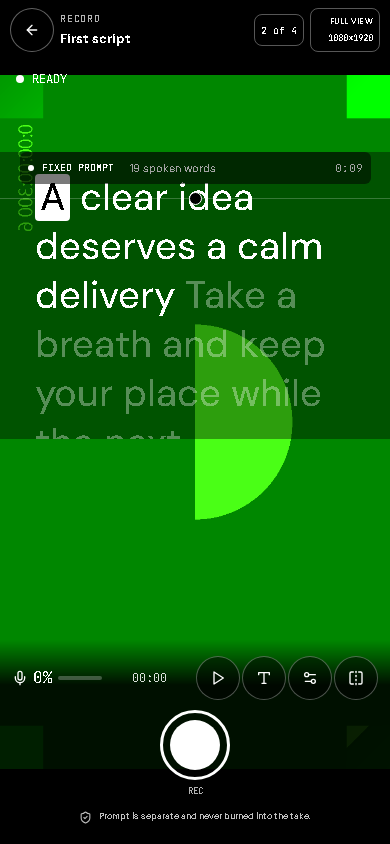
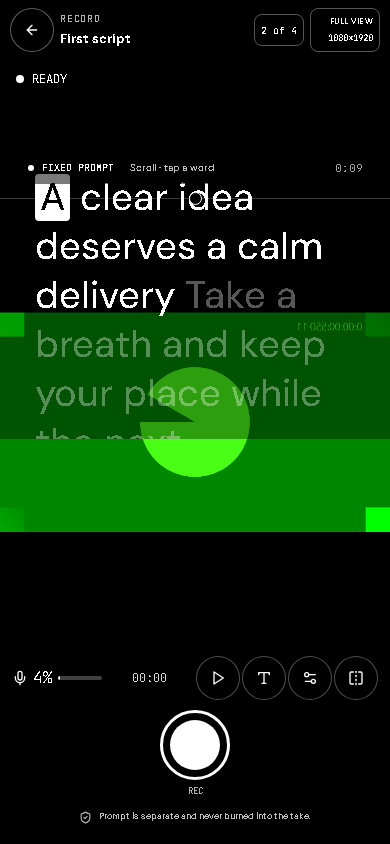
Fix iOS camera orientation and prompt navigation

diff --git a/src/components/teleprompter/PromptReader.tsx b/src/components/teleprompter/PromptReader.tsx
@@ -90,6 +90,12 @@ export function PromptReader({ script, settings, onCursorChange, compact = false
     setPlayingState(false)
   }, [setPlayingState])
 
+  const beginManualNavigation = useCallback(() => {
+    // Touching the transcript hands control to the presenter. Keep recording,
+    // but stop automatic movement so the list cannot fight the user's drag.
+    if (playing) stopScroll()
+  }, [playing, stopScroll])
+
   const tick = useCallback((timestamp: number) => {
     if (startedAtRef.current === null || !parsed.words || settings.mode === 'manual') return
     const elapsed = Math.max(0, (timestamp - startedAtRef.current) / 1000)
@@ -174,12 +180,12 @@ export function PromptReader({ script, settings, onCursorChange, compact = false
 
   return <div className={`tp-reader-wrap ${compact ? 'tp-reader-compact' : ''} ${hideControls ? 'tp-reader-no-controls' : ''}`}>
     <div className="tp-reader-head">
-      <div className="tp-reader-meta"><span className="tp-live-dot"/><span className="mono">{modeLabel}</span><span className="tp-divider"/><span>{parsed.words.toLocaleString()} spoken words</span></div>
+      <div className="tp-reader-meta"><span className="tp-live-dot"/><span className="mono">{modeLabel}</span><span className="tp-divider"/><span className="tp-reader-word-count">{parsed.words.toLocaleString()} spoken words</span>{compact && <span className="tp-reader-gesture-hint">Scroll · tap a word</span>}</div>
       <div className="tp-reader-stats"><span className="mono">{formatDuration(timing.estimatedSeconds)}</span></div>
     </div>
     <div className="tp-reading-stage" style={readerStyle} onKeyDown={keyDown} tabIndex={0} role="region" aria-label="Teleprompter reader">
       {settings.showReadingLine !== false && <div className="tp-reading-line" aria-hidden="true"><span/></div>}
-      <div className="tp-script-scroll" ref={scrollRef}>
+      <div className="tp-script-scroll" ref={scrollRef} onPointerDown={beginManualNavigation}>
         <div className="tp-script-column">
           <div className="tp-anchor-spacer" aria-hidden="true"/>
           {parsed.blocks.map((block) => {
@@ -193,7 +199,7 @@ export function PromptReader({ script, settings, onCursorChange, compact = false
                   const spokenIndex = token.spoken ? parsed.spokenTokens.findIndex((item) => item.index === token.index) : -1
                   const state = !token.spoken ? 'future' : spokenIndex < cursor ? 'past' : spokenIndex === cursor ? 'current' : 'future'
                   const activeLine = token.spoken && activeToken && token.paragraph === activeToken.paragraph && token.sentence === activeToken.sentence
-                  return <span key={token.index}><button ref={token.spoken ? registerToken(spokenIndex) : undefined} type="button" className={`${tokenClass(token, state, settings.dimSurrounding)}${activeLine ? ' tp-active-line' : ''}`} onClick={() => token.spoken && setPosition(spokenIndex, 'smooth', true)} aria-current={state === 'current' ? 'true' : undefined}>{token.text}</button>{token.spoken ? ' ' : ''}</span>
+                  return <span key={token.index}><button ref={token.spoken ? registerToken(spokenIndex) : undefined} type="button" className={`${tokenClass(token, state, settings.dimSurrounding)}${activeLine ? ' tp-active-line' : ''}`} data-spoken-index={token.spoken ? spokenIndex : undefined} aria-label={token.spoken ? `Start prompt at ${token.text}` : undefined} onClick={() => token.spoken && setPosition(spokenIndex, 'smooth', true)} aria-current={state === 'current' ? 'true' : undefined}>{token.text}</button>{token.spoken ? ' ' : ''}</span>
                 })}
               </p>}
               {firstPosition >= 0 && firstPosition === cursor && <span className="tp-block-marker" aria-hidden="true">NOW</span>}

diff --git a/teleprompter-e2e/phone-flow-navigation.spec.ts b/teleprompter-e2e/phone-flow-navigation.spec.ts
@@ -43,9 +43,10 @@ test.describe('phone first Script to Record to Review flow', () => {
     const cameraFrame = await page.evaluate(() => {
       const canvas = document.querySelector('canvas[aria-label="Camera preview image"]') as HTMLCanvasElement | null;
       const content = canvas?.getAttribute('data-content-rect');
-      return { rect: canvas?.getBoundingClientRect(), targetWidth: canvas?.width ?? 0, targetHeight: canvas?.height ?? 0, framingMode: canvas?.dataset.framingMode ?? '', content: content ? JSON.parse(content) as { x: number; y: number; width: number; height: number } : null };
+      return { rect: canvas?.getBoundingClientRect(), targetWidth: canvas?.width ?? 0, targetHeight: canvas?.height ?? 0, framingMode: canvas?.dataset.framingMode ?? '', rotation: canvas?.dataset.rotation ?? '', content: content ? JSON.parse(content) as { x: number; y: number; width: number; height: number } : null };
     });
     expect(cameraFrame.framingMode).toBe('fit');
+    expect(cameraFrame.rotation).toBe('0');
     expect(cameraFrame.rect?.width ?? 0).toBeGreaterThan(0);
     expect(cameraFrame.rect?.height ?? 0).toBeGreaterThan(0);
     expect(cameraFrame.content?.x ?? -1).toBeGreaterThanOrEqual(-1);
@@ -54,6 +55,18 @@ test.describe('phone first Script to Record to Review flow', () => {
     expect((cameraFrame.content?.y ?? 0) + (cameraFrame.content?.height ?? 0)).toBeLessThanOrEqual(cameraFrame.targetHeight + 1);
     mediaCalls.push(...await page.evaluate(() => (window as typeof window & { __phoneFlowMediaCalls?: unknown[] }).__phoneFlowMediaCalls ?? []));
     expect(mediaCalls.length).toBeGreaterThan(0);
+    const promptScroll = page.locator('.tp-reader-compact .tp-script-scroll');
+    const promptWords = page.locator('.tp-reader-compact button[data-spoken-index]');
+    await expect(page.getByText('Scroll · tap a word', { exact: true })).toBeVisible();
+    await expect(promptWords).toHaveCount(19);
+    expect(await promptScroll.evaluate(element => element.scrollHeight > element.clientHeight)).toBe(true);
+    const jumpWord = promptWords.nth(9);
+    await jumpWord.scrollIntoViewIfNeeded();
+    await jumpWord.click();
+    await expect(jumpWord).toHaveAttribute('aria-current', 'true');
+    await promptWords.first().scrollIntoViewIfNeeded();
+    await promptWords.first().click();
+    await expect(promptWords.first()).toHaveAttribute('aria-current', 'true');
     const recordGeometry = await page.evaluate(() => ({
       scrollHeight: document.scrollingElement?.scrollHeight ?? 0,
       viewportHeight: innerHeight,
@@ -77,6 +90,12 @@ test.describe('phone first Script to Record to Review flow', () => {
     await page.screenshot({ path: resolve(evidenceDir, 'record-normal-view.png'), fullPage: false });
     await page.getByRole('button', { name: 'Start recording', exact: true }).click();
     await expect(page.getByRole('button', { name: 'Stop and save recording', exact: true })).toBeVisible();
+    await expect(page.getByRole('button', { name: 'Pause prompt', exact: true })).toBeVisible();
+    await promptScroll.dispatchEvent('pointerdown', { pointerType: 'touch' });
+    await expect(page.getByRole('button', { name: 'Play prompt', exact: true })).toBeVisible();
+    await jumpWord.scrollIntoViewIfNeeded();
+    await jumpWord.click();
+    await expect(jumpWord).toHaveAttribute('aria-current', 'true');
     await page.waitForTimeout(300);
     const captureBeforePromptEdit = await page.evaluate(() => {
       const video = document.querySelector('video[aria-label="Camera preview"]') as HTMLVideoElement | null;

diff --git a/src/features/recording/capture.test.ts b/src/features/recording/capture.test.ts
@@ -98,31 +98,31 @@ describe('capture orientation negotiation', () => {
     expect(fill.contentRect.x).toBeLessThan(0);
   });
 
-  it('auto rotation keeps the decoded source shape while changing display axes', () => {
+  it('does not infer rotation from landscape dimensions alone', () => {
     const transform = resolveCaptureTransform({ sourceWidth: 1920, sourceHeight: 1080, targetWidth: 1080, targetHeight: 1920, requestedPortrait: true, rotation: 'auto', framingMode: 'fit' });
-    expect(transform.rotation).toBe(90);
-    expect(transform.displayWidth).toBe(1080);
-    expect(transform.displayHeight).toBe(1920);
-    expect(transform.contentRect).toMatchObject({ x: 0, y: 0, width: 1080, height: 1920 });
+    expect(transform.rotation).toBe(0);
+    expect(transform.displayWidth).toBe(1920);
+    expect(transform.displayHeight).toBe(1080);
+    expect(transform.contentRect).toMatchObject({ x: 0, y: 656.25, width: 1080, height: 607.5 });
   });
 
-  it('centers bars for a 4:3 source in portrait Full view', () => {
+  it('centers a landscape 4:3 source without rotating it in Auto', () => {
     const transform = resolveCaptureTransform({ sourceWidth: 640, sourceHeight: 480, targetWidth: 1080, targetHeight: 1920, requestedPortrait: true, rotation: 'auto', framingMode: 'fit' });
-    expect(transform.rotation).toBe(90);
-    expect(transform.scale).toBeCloseTo(2.25);
+    expect(transform.rotation).toBe(0);
+    expect(transform.scale).toBeCloseTo(1.6875);
     expect(transform.drawWidth).toBeCloseTo(1080);
-    expect(transform.drawHeight).toBeCloseTo(1440);
-    expect(transform.offsets).toEqual({ x: 0, y: 240 });
-    expect(transform.contentRect).toEqual({ x: 0, y: 240, width: 1080, height: 1440 });
+    expect(transform.drawHeight).toBeCloseTo(810);
+    expect(transform.offsets).toEqual({ x: 0, y: 555 });
+    expect(transform.contentRect).toEqual({ x: 0, y: 555, width: 1080, height: 810 });
   });
 
   it('crops only when Fill view is explicitly selected', () => {
     const transform = resolveCaptureTransform({ sourceWidth: 640, sourceHeight: 480, targetWidth: 1080, targetHeight: 1920, requestedPortrait: true, rotation: 'auto', framingMode: 'fill' });
-    expect(transform.rotation).toBe(90);
-    expect(transform.scale).toBe(3);
-    expect(transform.drawWidth).toBe(1440);
+    expect(transform.rotation).toBe(0);
+    expect(transform.scale).toBe(4);
+    expect(transform.drawWidth).toBe(2560);
     expect(transform.drawHeight).toBe(1920);
-    expect(transform.offsetX).toBe(-180);
+    expect(transform.offsetX).toBe(-740);
     expect(transform.offsetY).toBe(0);
   });
 
@@ -145,6 +145,13 @@ describe('capture orientation negotiation', () => {
   it('uses the same resolved transform for preview descriptors', () => {
     const settings = { ...defaultCaptureSettings, portrait: true, framingMode: 'fit' as const, rotation: 'auto' as const };
     const transform = previewTransform(settings, { video: { width: 640, height: 480 } }, 640, 480);
+    expect(transform.rotation).toBe(0);
+    expect(transform.contentRect).toEqual({ x: 0, y: 555, width: 1080, height: 810 });
+  });
+
+  it('uses explicit camera rotation metadata in Auto mode', () => {
+    const settings = { ...defaultCaptureSettings, portrait: true, framingMode: 'fit' as const, rotation: 'auto' as const };
+    const transform = previewTransform(settings, { video: { width: 640, height: 480, rotation: 90 } }, 640, 480);
     expect(transform.rotation).toBe(90);
     expect(transform.contentRect).toEqual({ x: 0, y: 240, width: 1080, height: 1440 });
   });

diff --git a/src/features/recording/capture.ts b/src/features/recording/capture.ts
@@ -122,10 +122,19 @@ function positiveDimension(value: unknown, fallback: number): number {
   return typeof value === 'number' && Number.isFinite(value) && value > 0 ? value : fallback;
 }
 
-function resolvedRotation(rotation: CaptureSettings['rotation'], sourceWidth: number, sourceHeight: number, requestedPortrait: boolean): 0 | 90 | 270 {
+function resolvedRotation(rotation: CaptureSettings['rotation']): 0 | 90 | 270 {
   if (rotation === 0 || rotation === 90 || rotation === 270) return rotation;
-  const sourcePortrait = sourceHeight > sourceWidth;
-  return sourcePortrait === requestedPortrait ? 0 : 90;
+  // WebKit can expose landscape track dimensions while already presenting the
+  // camera upright. Dimensions alone are therefore not rotation metadata.
+  // Auto remains unrotated unless the camera reports a real quarter-turn; the
+  // caller resolves that metadata before reaching this pure transform.
+  return 0;
+}
+
+function reportedRotation(settings: CaptureSettings, actualVideo: Record<string, unknown>): CaptureSettings['rotation'] {
+  if (settings.rotation !== 'auto') return settings.rotation;
+  const value = normalizeRotation(actualVideo.rotation);
+  return value === 90 || value === 270 ? value : 0;
 }
 
 /**
@@ -140,7 +149,7 @@ export function resolveCaptureTransform(input: CaptureTransformInput): CaptureTr
   const targetHeight = positiveDimension(input.targetHeight, 1);
   const requestedPortrait = Boolean(input.requestedPortrait);
   const framingMode: CaptureSettings['framingMode'] = input.framingMode === 'fill' ? 'fill' : 'fit';
-  const rotation = resolvedRotation(input.rotation, sourceWidth, sourceHeight, requestedPortrait);
+  const rotation = resolvedRotation(input.rotation);
   const quarterTurn = rotation === 90 || rotation === 270;
   const displayWidth = quarterTurn ? sourceHeight : sourceWidth;
   const displayHeight = quarterTurn ? sourceWidth : sourceHeight;
@@ -216,7 +225,7 @@ export function previewTransform(settings: CaptureSettings, actualSettings: Reco
     targetWidth: dimensions.width,
     targetHeight: dimensions.height,
     requestedPortrait: settings.portrait,
-    rotation: settings.rotation ?? 'auto',
+    rotation: reportedRotation(settings, actualVideo),
     framingMode: settings.framingMode ?? 'fit',
   });
 }
@@ -412,13 +421,14 @@ async function createCaptureComposition(source: MediaStream, settings: CaptureSe
       return null;
     }
     const dimensions = requestedDimensions(settings);
+    const actualVideo = (actualSettings.video ?? {}) as Record<string, unknown>;
     const transform = resolveCaptureTransform({
       sourceWidth,
       sourceHeight,
       targetWidth: dimensions.width,
       targetHeight: dimensions.height,
       requestedPortrait: settings.portrait,
-      rotation: settings.rotation ?? 'auto',
+      rotation: reportedRotation(settings, actualVideo),
       framingMode: settings.framingMode ?? 'fit',
     });
     canvas.width = dimensions.width;

diff --git a/src/components/teleprompter/RecordPanel.tsx b/src/components/teleprompter/RecordPanel.tsx
@@ -206,7 +206,7 @@ export function RecordPanel({ snapshot, settings, script, reader, onBack, onSett
         <div className="tp-preflight-grid" style={{ display: 'grid', gridTemplateColumns: '1fr 1fr', gap: 12 }}>
           <NativeSelect label="Orientation" value={settings.portrait ? 'portrait' : 'landscape'} disabled={cameraControlsDisabled} onChange={(event) => onSettingsChange({ portrait: event.target.value === 'portrait' })}><option value="portrait">Portrait · 9:16</option><option value="landscape">Landscape · 16:9</option></NativeSelect>
           <NativeSelect label="Full view" value={framingMode} disabled={cameraControlsDisabled} onChange={(event) => onSettingsChange({ framingMode: event.target.value as CaptureSettings['framingMode'] })}><option value="fit">Full view</option><option value="fill">Fill screen</option></NativeSelect>
-          <NativeSelect label="Rotation" value={rotation} disabled={cameraControlsDisabled} onChange={(event) => { const value = event.target.value; onSettingsChange({ rotation: value === 'auto' ? 'auto' : Number(value) as CaptureSettings['rotation'] }) }}><option value="auto">Auto rotation</option><option value="0">0°</option><option value="90">90°</option><option value="270">270°</option></NativeSelect>
+          <NativeSelect label="Orientation correction" value={rotation} disabled={cameraControlsDisabled} onChange={(event) => { const value = event.target.value; onSettingsChange({ rotation: value === 'auto' ? 'auto' : Number(value) as CaptureSettings['rotation'] }) }}><option value="auto">Camera default</option><option value="0">No rotation</option><option value="90">Rotate 90°</option><option value="270">Rotate 270°</option></NativeSelect>
           <NativeSelect label="Resolution" value={String(settings.resolution)} disabled={cameraControlsDisabled} onChange={(event) => onSettingsChange({ resolution: Number(event.target.value) as CaptureSettings['resolution'] })}><option value="720">720p</option><option value="1080">1080p</option><option value="2160">2160p</option></NativeSelect>
           <NativeSelect label="Frame rate" value={String(settings.fps)} disabled={cameraControlsDisabled} onChange={(event) => onSettingsChange({ fps: Number(event.target.value) as CaptureSettings['fps'] })}><option value="24">24 fps</option><option value="25">25 fps</option><option value="30">30 fps</option><option value="50">50 fps</option><option value="60">60 fps</option></NativeSelect>
           <NativeSelect label="Camera" value={settings.cameraId} disabled={cameraControlsDisabled} onChange={(event) => onSettingsChange({ cameraId: event.target.value })}><option value="">Default camera</option>{snapshot.devices.filter((device) => device.kind === 'videoinput').map((device) => <option key={device.deviceId} value={device.deviceId}>{device.label || 'Camera'}</option>)}</NativeSelect>

diff --git a/src/styles/teleprompter.css b/src/styles/teleprompter.css
@@ -537,10 +537,14 @@
 .tp-prompt-sheet-done { position: sticky; right: 16px; bottom: 8px; left: 16px; width: calc(100% - 32px); margin: 8px 16px 12px; }
 
 .tp-record-reader-overlay .tp-reader-compact .tp-reading-stage { top: calc(18dvh + env(safe-area-inset-top)); right: 0; left: 0; height: var(--tp-window-height, 34dvh); min-height: 0; border: 0; border-radius: 0; background: transparent; box-shadow: none; }
-.tp-reader-compact .tp-script-scroll { overflow: hidden auto; }
+.tp-record-reader-overlay .tp-reader-compact .tp-reading-stage { pointer-events: auto; touch-action: pan-y; }
+.tp-reader-compact .tp-script-scroll { overflow: hidden auto; overscroll-behavior: contain; -webkit-overflow-scrolling: touch; touch-action: pan-y; scrollbar-width: thin; }
 .tp-record-reader-overlay .tp-reader-compact .tp-script-column { width: var(--tp-column, 86%); margin-left: var(--tp-margin-left, 7%); margin-right: var(--tp-margin-right, 7%); padding: 5px 8px; border-radius: 8px; background: transparent; text-align: var(--tp-align, left); transform: translateX(var(--tp-offset, 0)) scaleX(var(--tp-mirror, 1)); transform-origin: center; font-size: clamp(28px, 10vw, var(--tp-size, 38px)); line-height: max(1.25, var(--tp-line, 1.25)); }
+.tp-record-reader-overlay .tp-reader-compact .tp-token { pointer-events: auto; }
 .tp-reader-compact .tp-token.tp-active-line { color: #fff; text-decoration: none; }
 .tp-reader-compact .tp-token.tp-current { padding: 0 .12em; border-radius: 4px; background: #fff; color: #000; }
+.tp-reader-compact .tp-reader-word-count { display: none; }
+.tp-reader-gesture-hint { color: rgba(255,255,255,.74); font-size: 10px; white-space: nowrap; }
 .tp-reader-compact .tp-cue-label { font-size: .48em; line-height: 1.2; }
 .tp-reader-compact .tp-anchor-spacer { height: 22%; min-height: 24px; }
 .tp-reader-compact .tp-anchor-bottom { height: 22%; min-height: 24px; }

diff --git a/docs/RECORDING_UX_PLAN.md b/docs/RECORDING_UX_PLAN.md
@@ -4,7 +4,7 @@
 
 The default camera treatment is **Full view**. It preserves the source field of view and accepts black letterboxing when the camera and requested canvas have different aspect ratios. **Fill screen** remains an explicit option.
 
-For Auto rotation, compare the decoded stream dimensions with the requested orientation. If their orientations differ, rotate the source by one quarter turn before scaling. Do not use the handset screen angle as the primary camera-frame rotation: browsers may already normalize camera frames. Manual 0°, 90° and 270° overrides remain available for devices that report incorrect metadata.
+For Camera default rotation, trust only explicit camera rotation metadata. Never infer a quarter turn from reported width and height: iOS/WebKit can report landscape dimensions while already presenting upright pixels. Manual 0°, 90° and 270° corrections remain available for devices that report incorrect metadata.
 
 The preview and recorded canvas use the same fit/fill and rotation settings. A 16:9 source mapped to a 9:16 output must retain the whole source in Full view. The recorder keeps the original microphone track.
 
